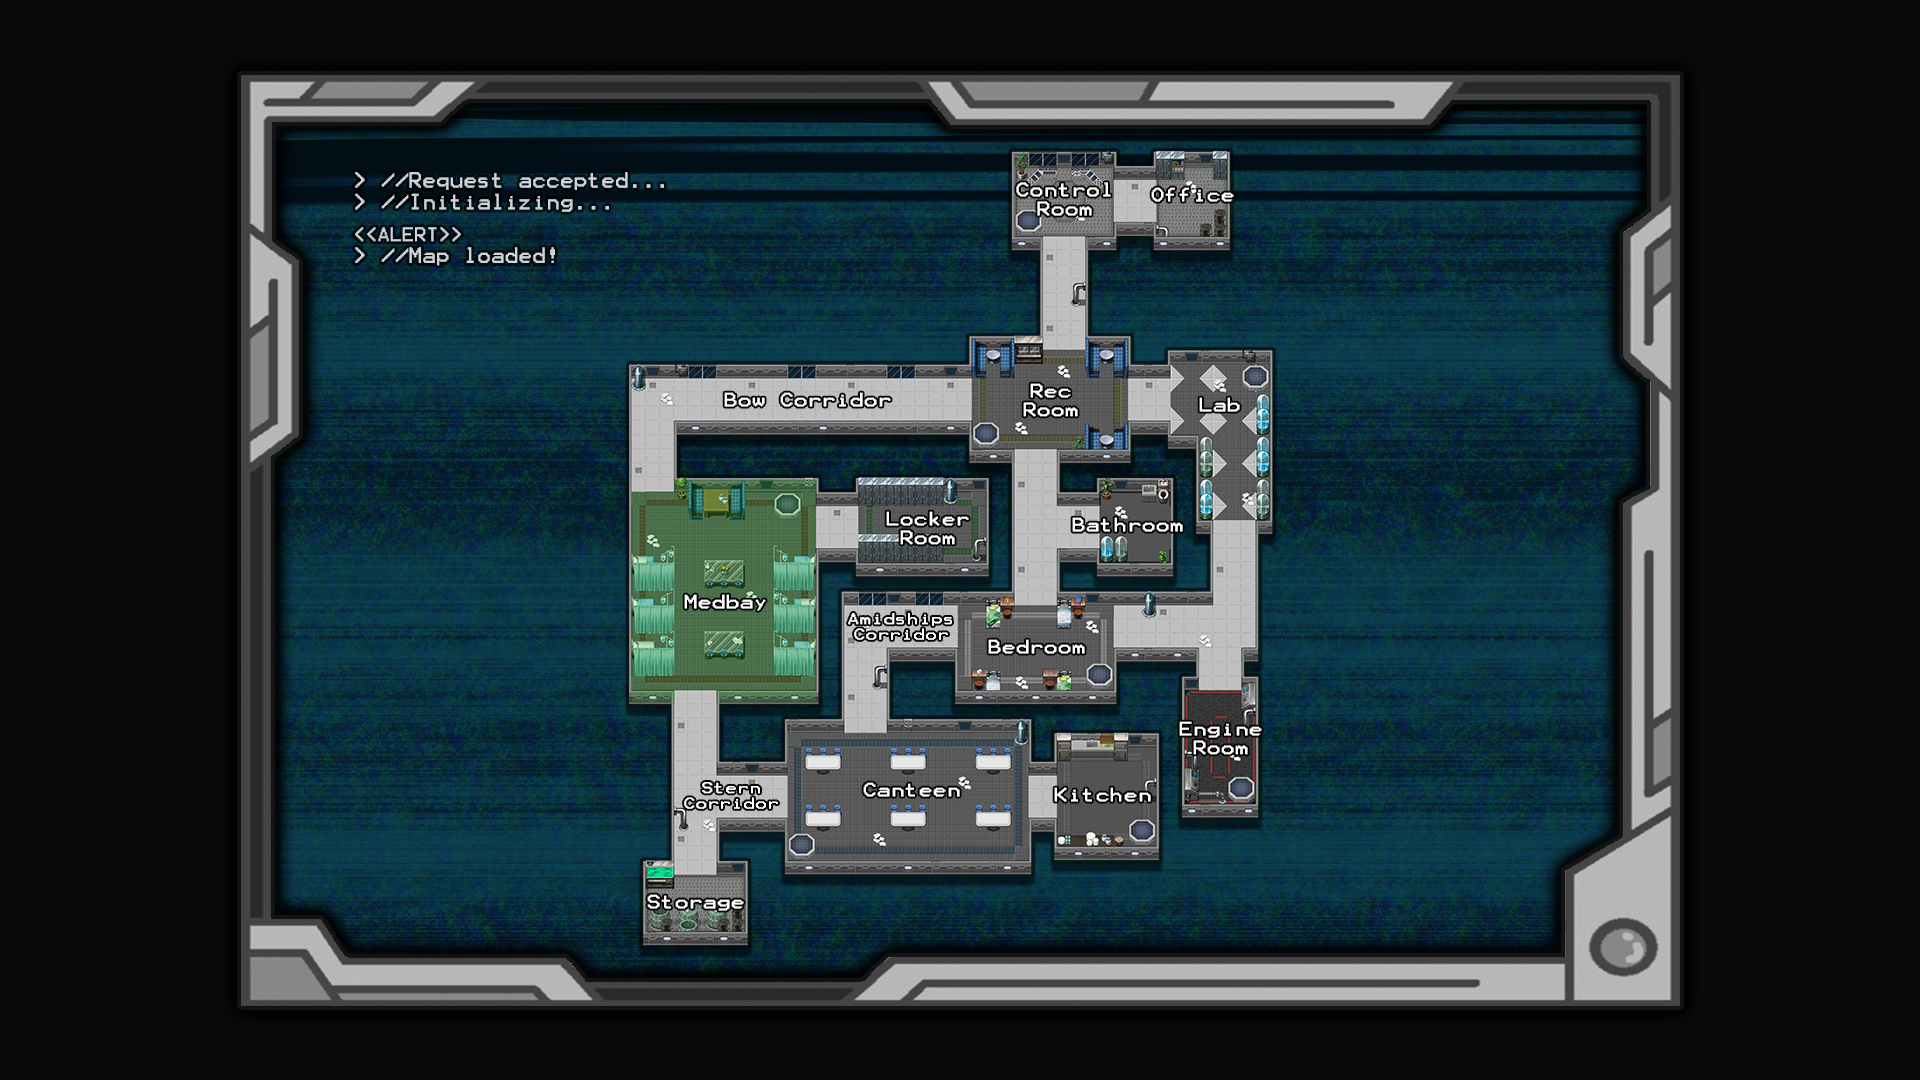
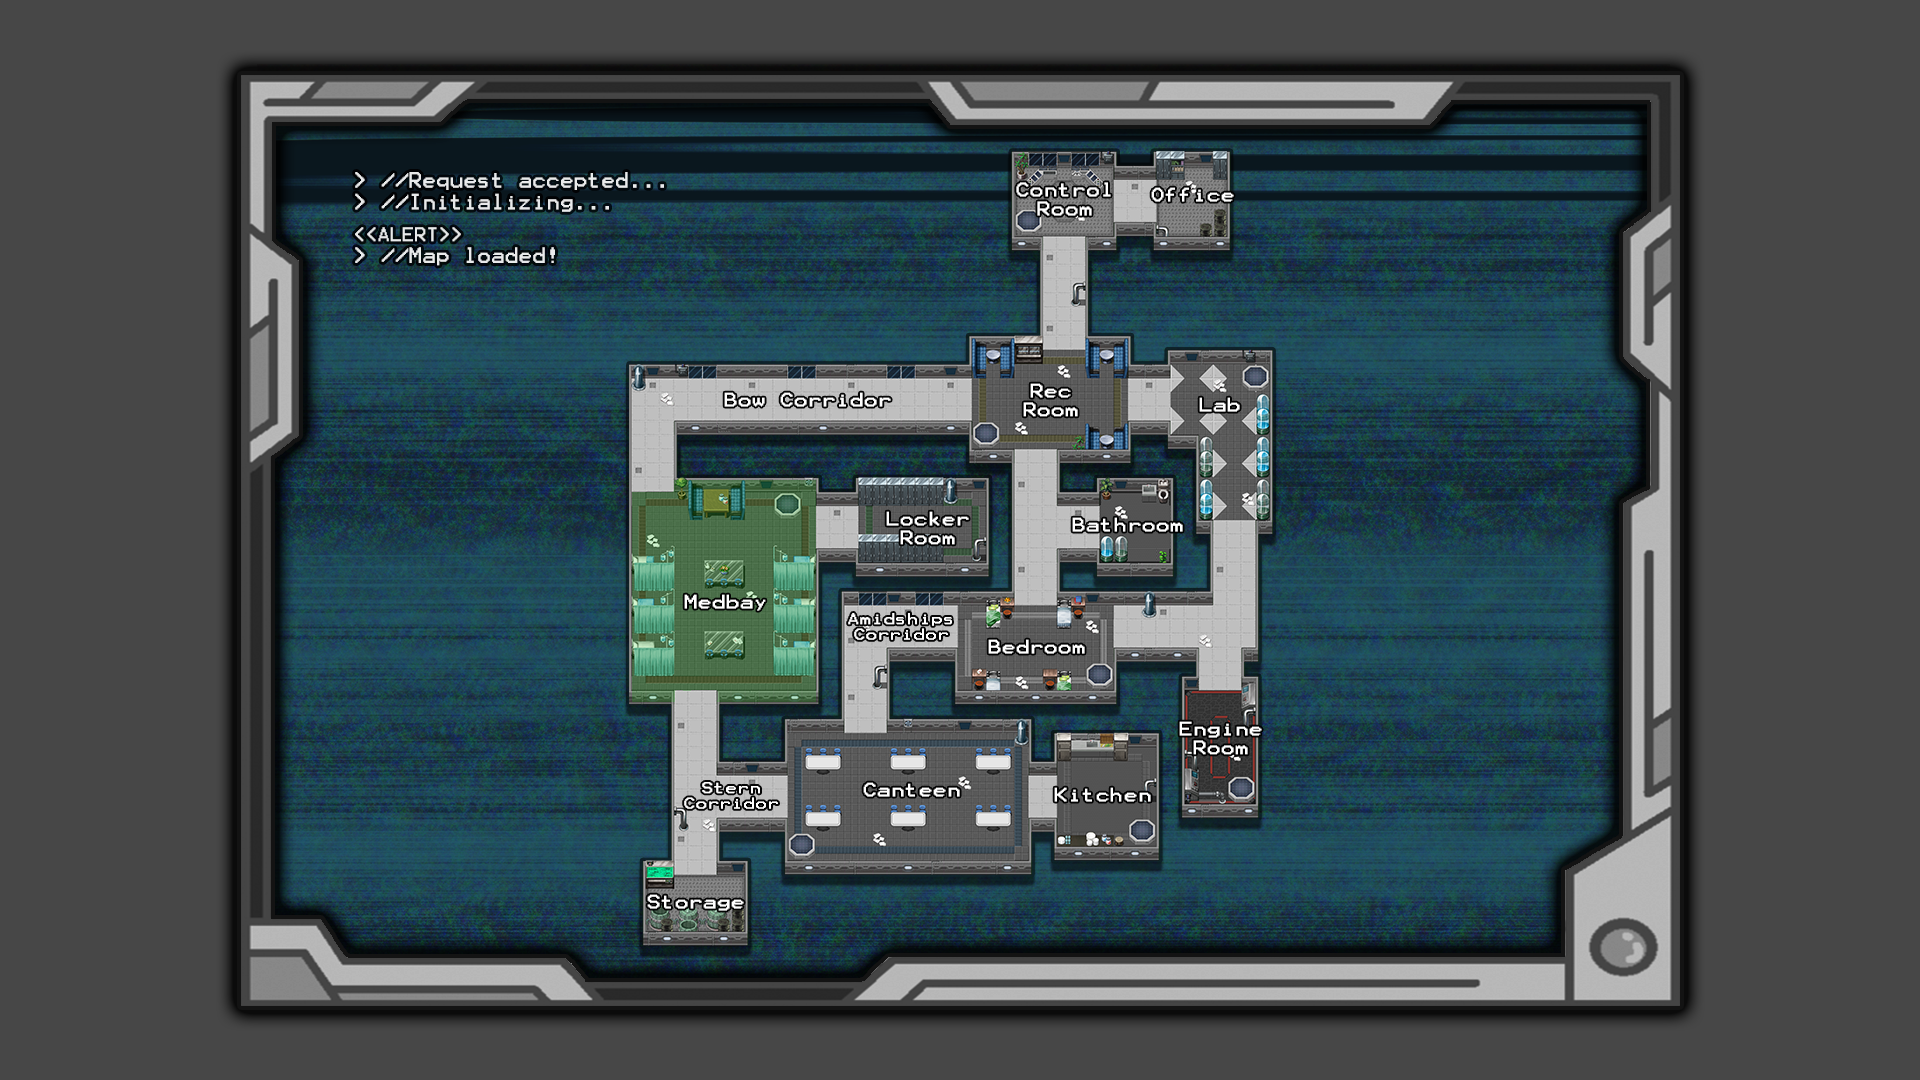
map screen background change
opacity change for visibility

diff --git a/core/src/com/group4/GameScreen.java b/core/src/com/group4/GameScreen.java
@@ -122,8 +122,6 @@ public class GameScreen extends ScreenAdapter {
             batch2.begin();
             batch2.draw(mapTexture, 0, 0);
             batch2.end();
-        }else{
-            batch2.dispose();
         }
     }
 
